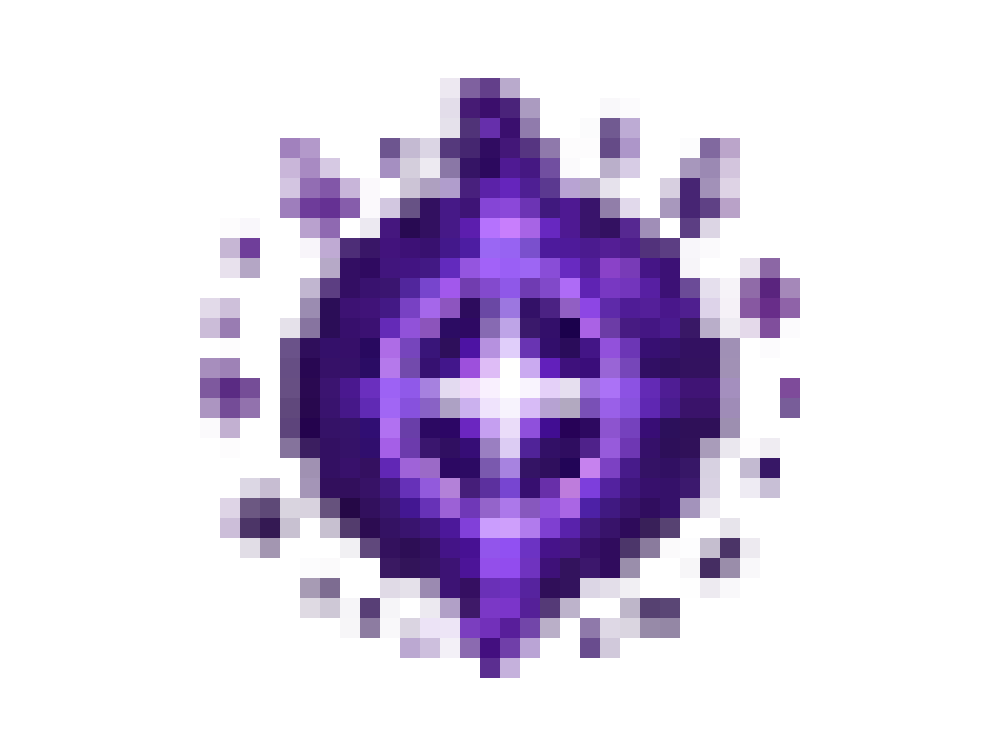
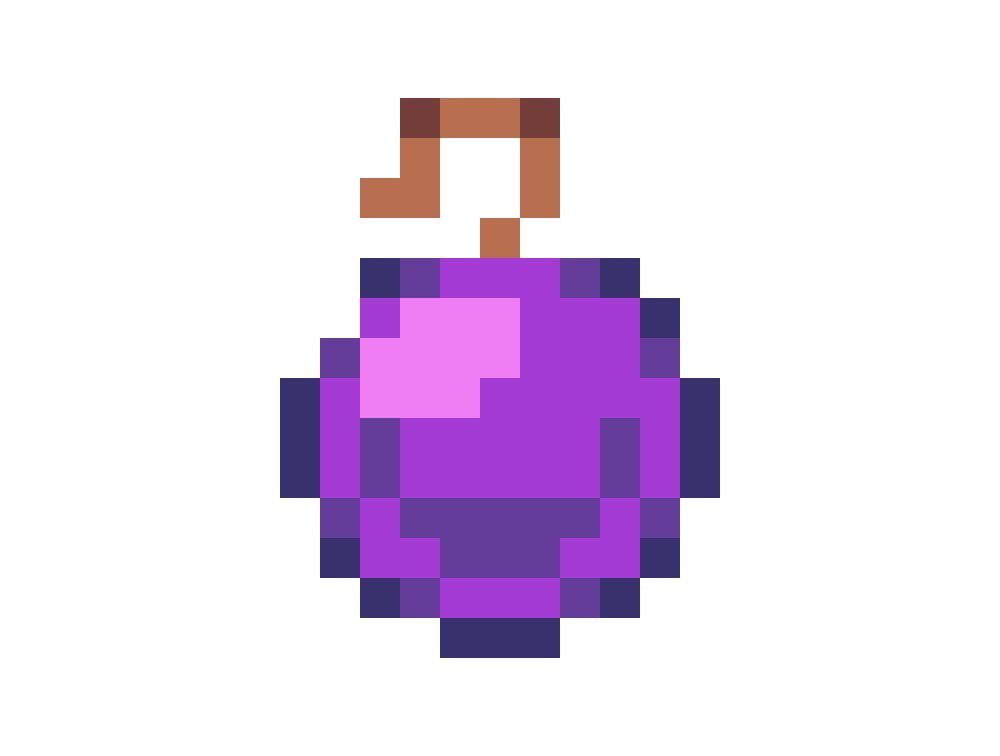
chore(asset): 法术卡面与法术图标更换为细像素风格
- 更换 15 张法术卡面与 15 个法术图标
- 移除 MaidBeacon（神社庭灯）与 Shrine（神龛）遗物
- 清理 NecromanticSummoningPower 与模组设置页的冗余注释
- 同步更新 RitsuLib 子模块至

diff --git a/Powers/NecromanticSummoningPower.cs b/Powers/NecromanticSummoningPower.cs
@@ -11,14 +11,6 @@ using STS2RitsuLib.Scaffolding.Content;
 
 namespace STS2_WineFox.Powers
 {
-    /// <summary>
-    ///     【死灵召唤】的第二段效果：**每回合结束时**，若奥斯提存活，
-    ///     由奥斯提对所有敌人造成伤害。
-    ///     <para>
-    ///         伤害由本能力自己的 <c>OstyDamage</c> 变量提供（不占用卡牌变量）；
-    ///         攻击走原版 <c>AttackCommand.FromOsty</c>，因此受原版相关修正影响。
-    ///     </para>
-    /// </summary>
     [RegisterPower]
     public class NecromanticSummoningPower : WineFoxPower
     {

diff --git a/Settings/WineFoxModSettingsPage.cs b/Settings/WineFoxModSettingsPage.cs
@@ -13,8 +13,7 @@ namespace STS2_WineFox.Settings
         private static readonly Lazy<I18N> Localization = new(() => RitsuLibFramework.CreateModLocalization(
             Const.ModId,
             "WineFox-ModSettings",
-            // 必须带模组 id 这一层：框架按 $"{res}/{语言}.json" 原样拼接，
-            // 少一层就会拼出 PCK 里不存在的 res://localization/... 而静默退回英文兜底。
+
             pckFolders: [$"res://{Const.ModId}/localization/mod_settings"]));
 
         private static bool _registered;
